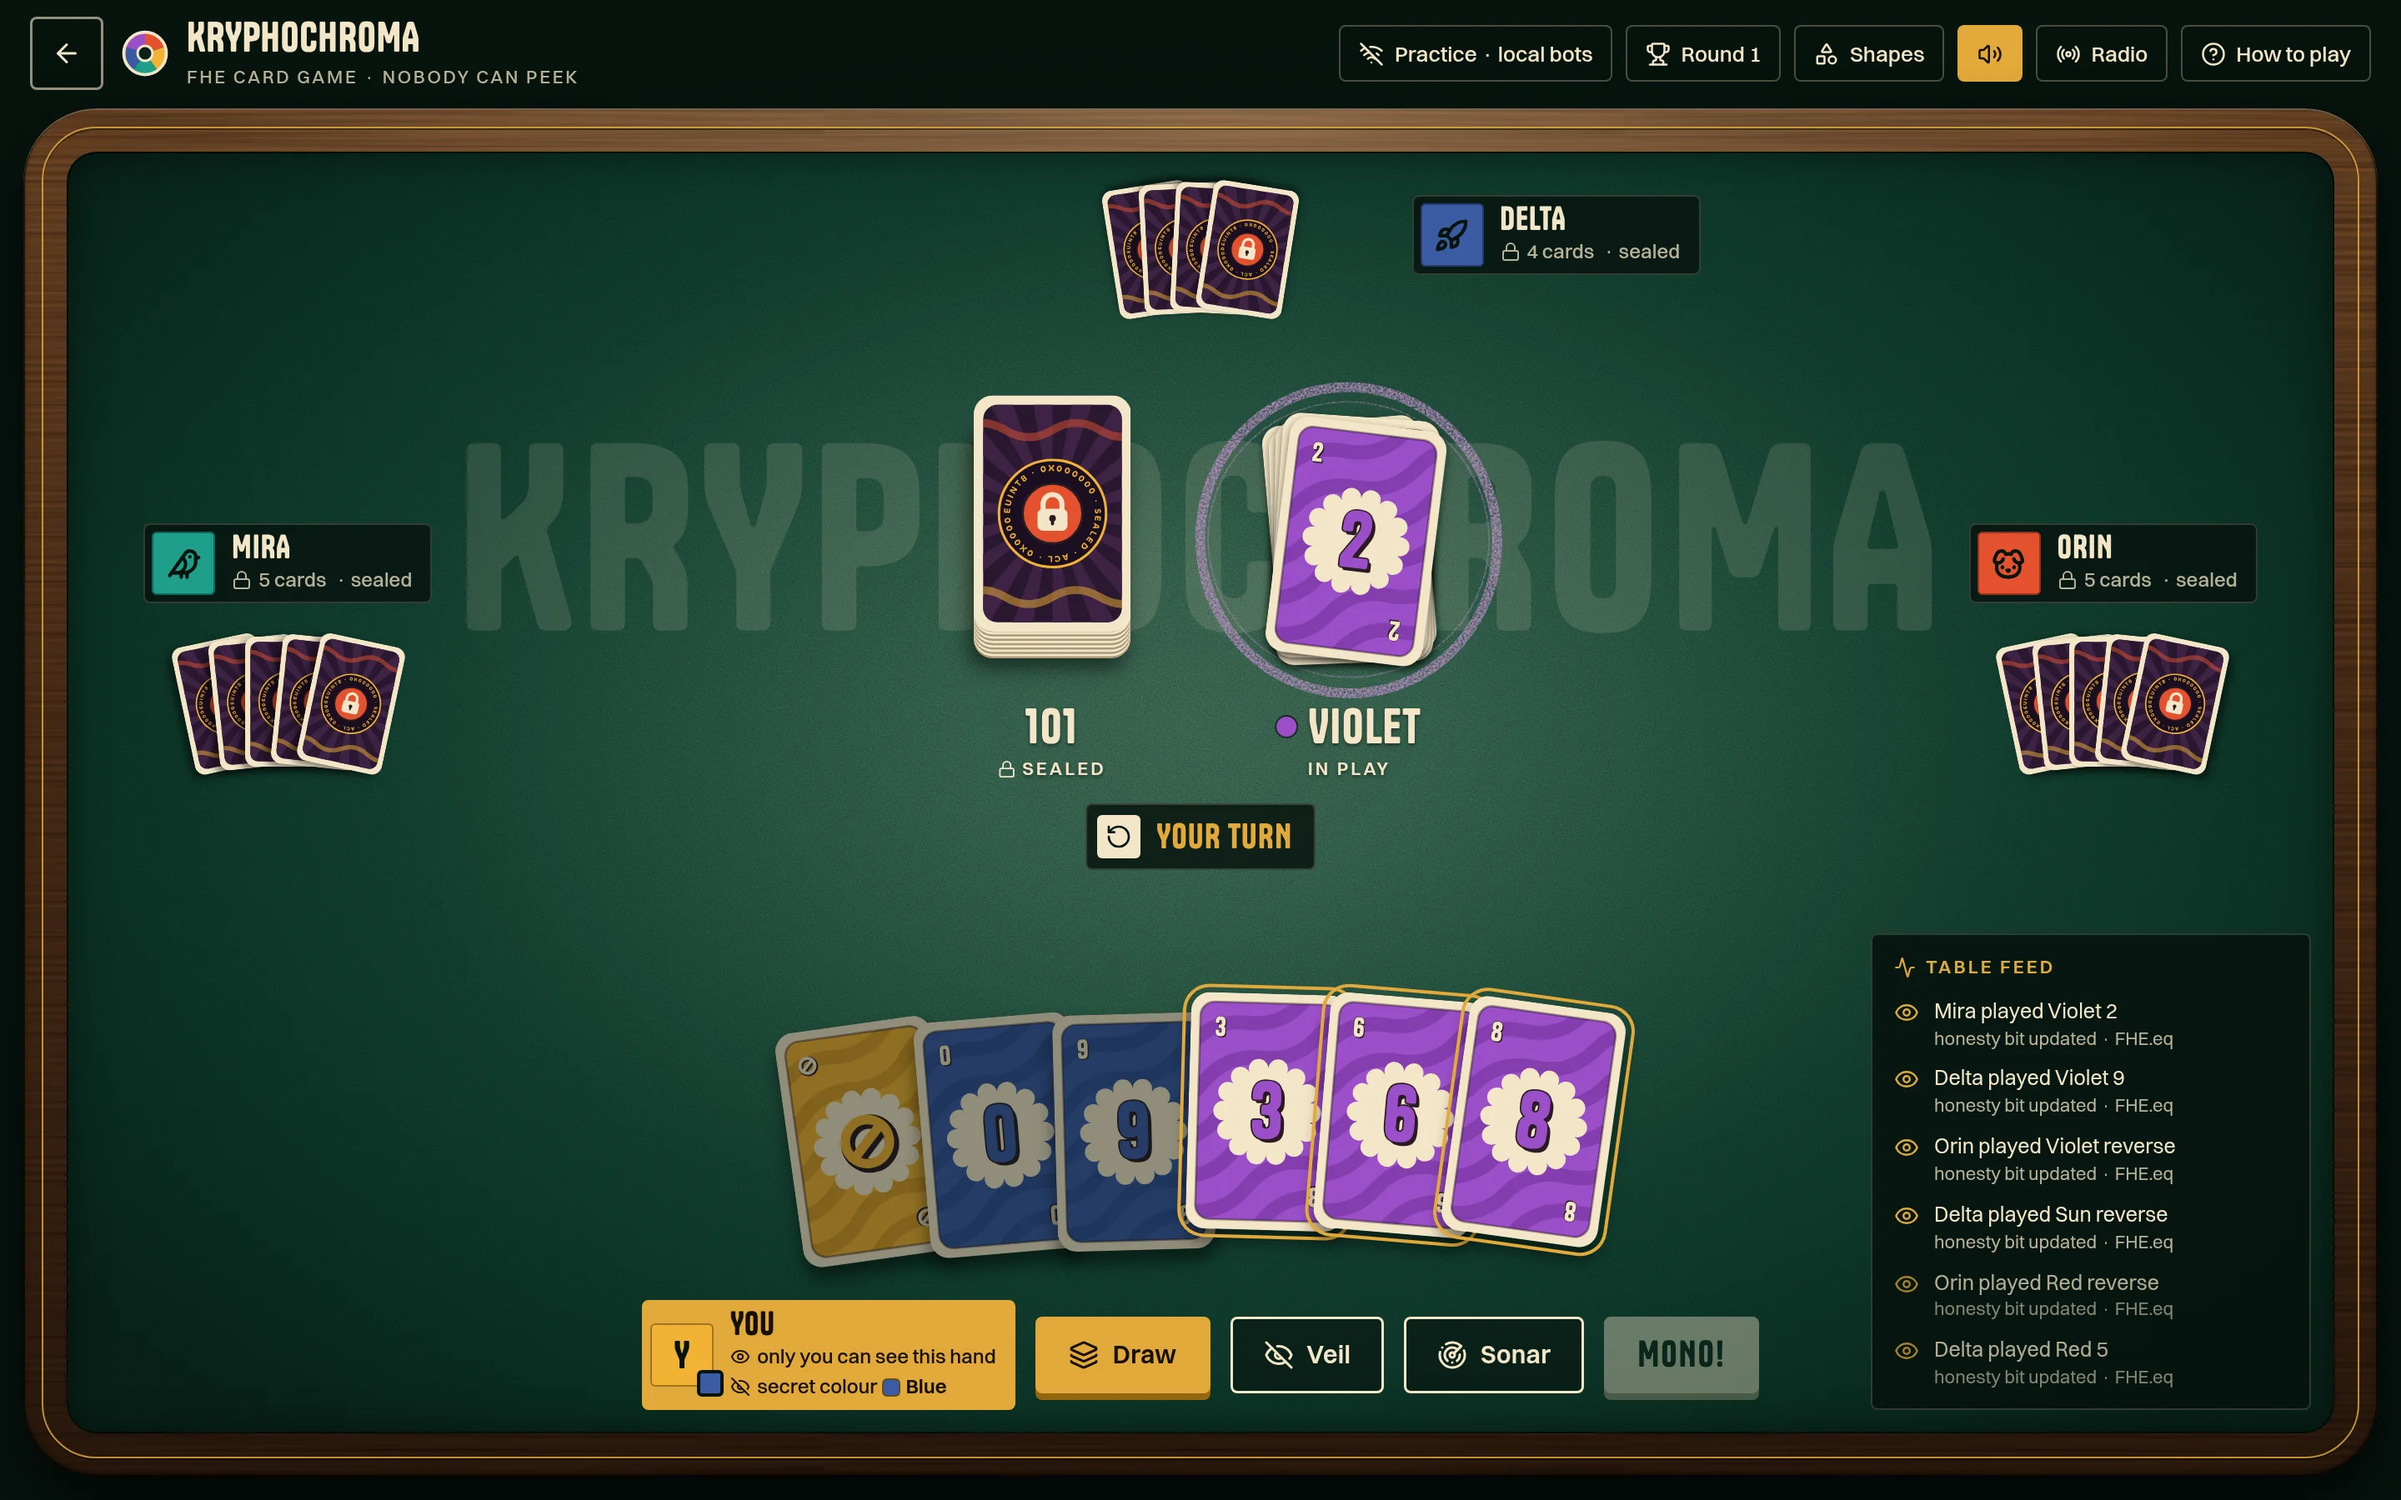
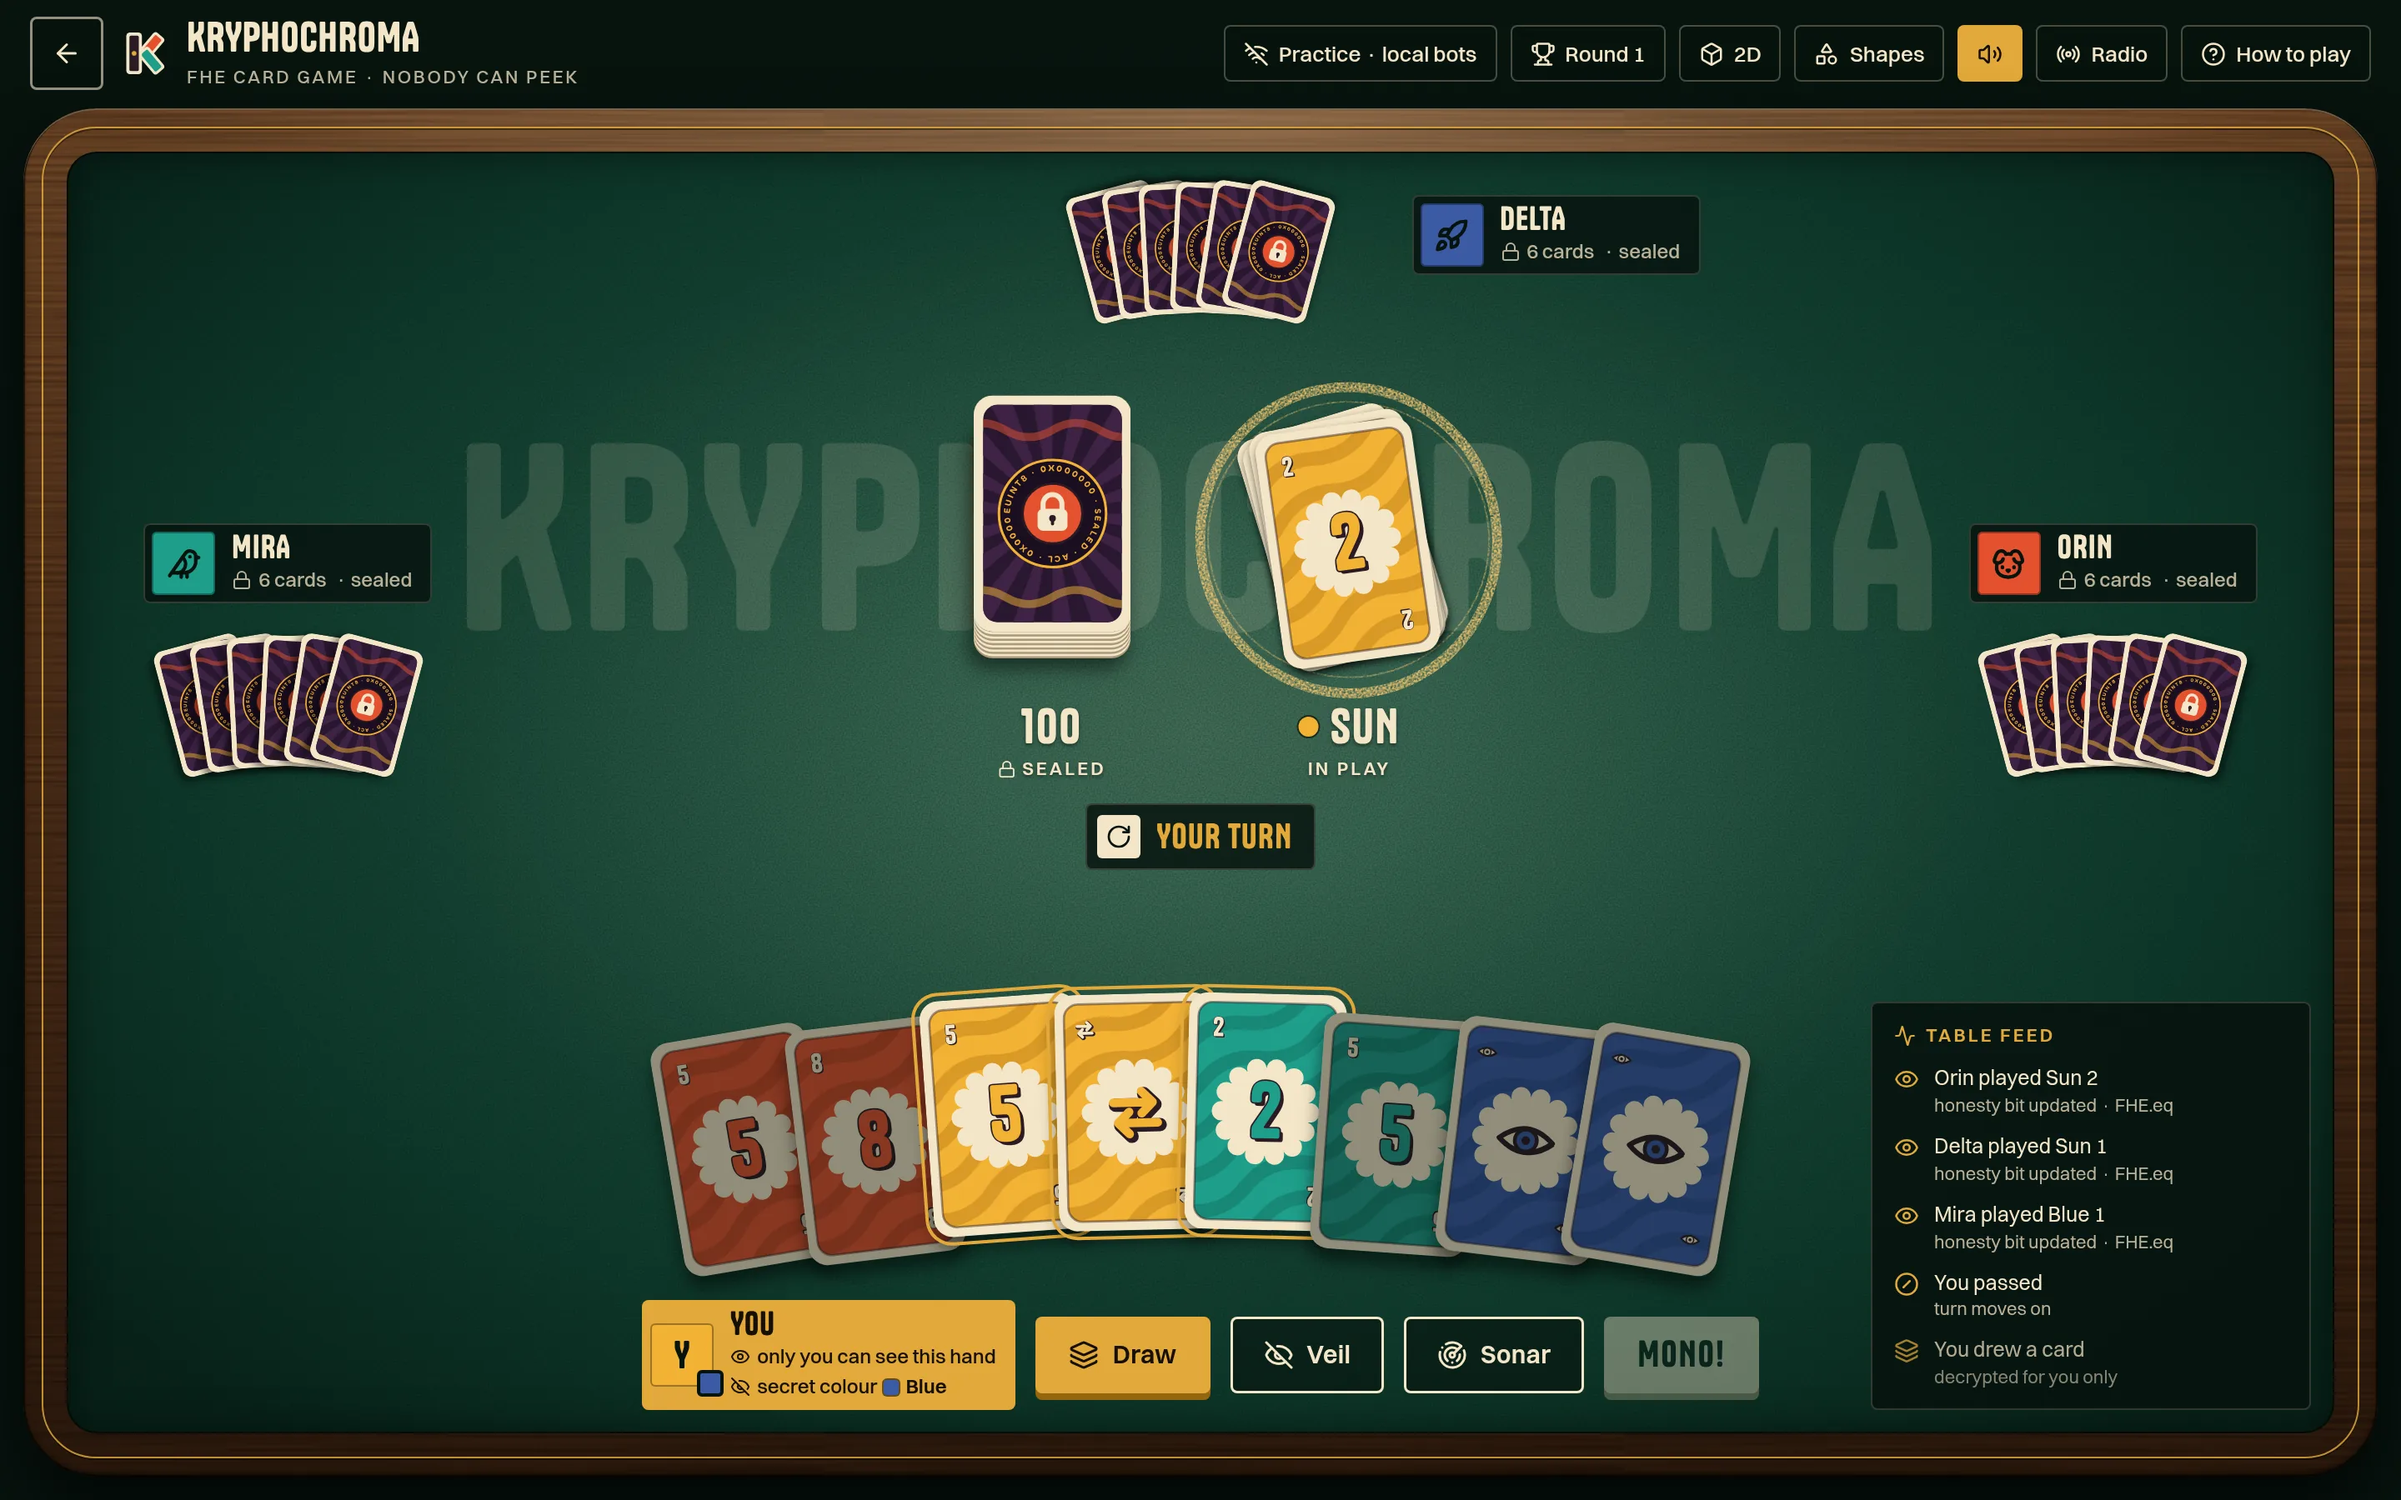
feat(landing): seat the scene at the game table with rails and chairs

diff --git a/apps/web/src/components/landing/scene.ts b/apps/web/src/components/landing/scene.ts
@@ -1,9 +1,9 @@
 import {
   ACESFilmicToneMapping,
-  BoxGeometry,
   CircleGeometry,
   CylinderGeometry,
   DoubleSide,
+  Fog,
   HemisphereLight,
   LatheGeometry,
   LoadingManager,
@@ -25,13 +25,11 @@ import {
 } from "three";
 import { buildCardKit, buildDeckStack, faceOf, makeCard, place } from "./cards";
 import { linear } from "./color";
-import { BASE_ASPECT, CARD_T, DECK, DECK_TOP, DRAWN_FACE, FIRST_FACE, HAND_FACES, HAND_SIZE, LAMP_INTENSITY, LAMP_Y, PEEKED_FACE, PEEK_SEAT, PEEK_SLOT, PRINT, ROOM_INK, SEATS, TABLE_X, TABLE_Z } from "./constants";
+import { createFurniture } from "../table3d/furnish";
+import { BASE_ASPECT, CARD_T, CHAIRS, DECK, DECK_TOP, DRAWN_FACE, FIRST_FACE, FOG_FAR, FOG_NEAR, HAND_FACES, HAND_SIZE, LAMP_INTENSITY, LAMP_Y, PEEKED_FACE, PEEK_SEAT, PEEK_SLOT, PRINT, ROOM_INK, SEATS, TABLE_CUT } from "./constants";
 import { seeded } from "./random";
 import type { CardRig, Rig } from "./state";
-import { feltTexture, printTexture } from "./textures";
-
-const RAIL_W = 0.6;
-const RAIL_H = 0.2;
+import { printTexture } from "./textures";
 
 interface Lights {
   readonly spot: SpotLight;
@@ -59,7 +57,7 @@ function addLights(scene: Scene, shadowSize: number): Lights {
   scene.add(spot);
   scene.add(spot.target);
 
-  const violet = new SpotLight(linear("#9b4fc9"), 0, 14, 0.52, 1, 1);
+  const violet = new SpotLight(linear("#9b4fc9"), 0, 14, 0.6, 1, 1);
   violet.position.set(0.4, 4.2, 5.0);
   violet.target.position.set(0, 0, 2.7);
   scene.add(violet);
@@ -67,16 +65,10 @@ function addLights(scene: Scene, shadowSize: number): Lights {
   return { spot, violet };
 }
 
-function addTable(scene: Scene, textures: Texture[]): void {
-  const felt = feltTexture();
-  textures.push(felt);
-  const baize = new Mesh(
-    new PlaneGeometry(TABLE_X * 2, TABLE_Z * 2),
-    new MeshStandardMaterial({ color: linear("#235a47"), roughness: 1, metalness: 0, map: felt, bumpMap: felt, bumpScale: 0.006 }),
-  );
-  baize.rotation.x = -Math.PI / 2;
-  baize.receiveShadow = true;
-  scene.add(baize);
+function addTable(scene: Scene, textures: Texture[], withFloor: boolean): void {
+  const furniture = createFurniture(scene, textures, withFloor);
+  furniture.setCut(TABLE_CUT);
+  furniture.setChairs(CHAIRS);
 
   const name = printTexture();
   textures.push(name);
@@ -89,22 +81,6 @@ function addTable(scene: Scene, textures: Texture[]): void {
   print.receiveShadow = true;
   print.renderOrder = 1;
   scene.add(print);
-
-  const wood = new MeshStandardMaterial({ color: linear("#4f2f18"), roughness: 0.55, metalness: 0 });
-  const long = new BoxGeometry(TABLE_X * 2 + RAIL_W * 2, RAIL_H, RAIL_W);
-  const short = new BoxGeometry(RAIL_W, RAIL_H, TABLE_Z * 2);
-  const rails = [
-    { geometry: long, x: 0, z: TABLE_Z + RAIL_W / 2 },
-    { geometry: long, x: 0, z: -TABLE_Z - RAIL_W / 2 },
-    { geometry: short, x: TABLE_X + RAIL_W / 2, z: 0 },
-    { geometry: short, x: -TABLE_X - RAIL_W / 2, z: 0 },
-  ];
-  for (const { geometry, x, z } of rails) {
-    const rail = new Mesh(geometry, wood);
-    rail.position.set(x, RAIL_H / 2 - 0.03, z);
-    rail.receiveShadow = true;
-    scene.add(rail);
-  }
 }
 
 function addLamp(scene: Scene): void {
@@ -193,7 +169,8 @@ export function createRig(stage: HTMLElement, band: boolean, forceHq: boolean): 
 
     const camera = new PerspectiveCamera(30, BASE_ASPECT, 0.4, 60);
     const lights = addLights(scene, band || soft ? 1024 : 2048);
-    addTable(scene, textures);
+    scene.fog = new Fog(ROOM_INK, FOG_NEAR, FOG_FAR);
+    addTable(scene, textures, !soft);
     addLamp(scene);
     const cards = addCards(scene, renderer, manager, textures);
     stage.prepend(canvas);

diff --git a/apps/web/test/landingTable.test.ts b/apps/web/test/landingTable.test.ts
@@ -1,0 +1,44 @@
+import { describe, expect, it } from "vitest";
+import { CARD_H, CHAIRS, HAND_SIZE, HAND_Z, SEATS, TABLE_CUT } from "@/components/landing/constants";
+import { type Slot, handSlot, seatSlot } from "@/components/landing/layout";
+import { CHAIR_REACH } from "@/components/table3d/constants";
+
+const REACH = CARD_H / 2;
+
+describe("landing table", () => {
+  it("keeps every rival card on the felt", () => {
+    const slot: Slot = { x: 0, z: 0, yaw: 0 };
+    for (const seat of SEATS) {
+      for (let i = 0; i < HAND_SIZE; i++) {
+        seatSlot(seat, i, slot);
+        expect(Math.abs(slot.x) + REACH).toBeLessThan(TABLE_CUT.hx);
+        expect(slot.z - REACH).toBeGreaterThan(TABLE_CUT.z0);
+        expect(slot.z + REACH).toBeLessThan(TABLE_CUT.z1);
+      }
+    }
+  });
+
+  it("keeps the open hand on the felt", () => {
+    const slot: Slot = { x: 0, z: 0, yaw: 0 };
+    for (let i = 0; i < HAND_SIZE; i++) {
+      handSlot(i, HAND_SIZE, slot);
+      expect(slot.z).toBeGreaterThanOrEqual(HAND_Z);
+      expect(slot.z + REACH).toBeLessThan(TABLE_CUT.z1);
+      expect(Math.abs(slot.x) + REACH).toBeLessThan(TABLE_CUT.hx);
+    }
+  });
+
+  it("pulls a chair up behind every rival, facing the table", () => {
+    expect(CHAIRS).toHaveLength(SEATS.length);
+    const centreZ = (TABLE_CUT.z0 + TABLE_CUT.z1) / 2;
+    CHAIRS.forEach((chair, i) => {
+      const seat = SEATS[i];
+      if (!seat) throw new Error("chair without a seat");
+      const towardCentre = Math.sin(chair.yaw) * -chair.x + Math.cos(chair.yaw) * (centreZ - chair.z);
+      expect(towardCentre).toBeGreaterThan(0);
+      const outside = Math.max(Math.abs(chair.x) - TABLE_CUT.hx, TABLE_CUT.z0 - chair.z);
+      expect(outside).toBeCloseTo(CHAIR_REACH, 6);
+      expect(Math.hypot(chair.x - seat.x, chair.z - seat.z)).toBeLessThan(Math.abs(CHAIR_REACH) + 2);
+    });
+  });
+});

diff --git a/apps/web/src/components/landing/constants.ts b/apps/web/src/components/landing/constants.ts
@@ -1,3 +1,6 @@
+import { CHAIR_REACH } from "../table3d/constants";
+import type { TableCut } from "../table3d/layout";
+
 export const ROOM_INK = "#07130e";
 export const ASSET_BASE = "/landing";
 export const BAND_QUERY = "(max-width: 860px)";
@@ -17,8 +20,9 @@ export const INTRO = 1.9;
 export const SLIDE = 1.56;
 export const NUDGE = 0.34;
 
-export const TABLE_X = 7.2;
-export const TABLE_Z = 5.0;
+export const TABLE_CUT: TableCut = { hx: 4.5, z0: -3.9, z1: 4.2, r: 1.3 };
+export const FOG_NEAR = 27;
+export const FOG_FAR = 60;
 export const LAMP_Y = 4.4;
 export const LAMP_INTENSITY = 2.1;
 export const VIOLET_INTENSITY = 5;
@@ -78,3 +82,9 @@ export const DECK_TOP = DECK.n * DECK.step;
 export const PILE = { x: 0.6, z: -0.5 } as const;
 export const VEIL = { x: -0.75, z: 0.9, yaw: 0.22 } as const;
 export const PRINT = { text: "KRYPHOCHROMA", x: 0, z: 0.94, w: 4.9, d: 1.36, ink: 0.46 } as const;
+
+export const CHAIRS = [
+  { x: -TABLE_CUT.hx - CHAIR_REACH, z: SEATS[0].z, yaw: Math.PI / 2 },
+  { x: SEATS[1].x, z: TABLE_CUT.z0 - CHAIR_REACH, yaw: 0 },
+  { x: TABLE_CUT.hx + CHAIR_REACH, z: SEATS[2].z, yaw: -Math.PI / 2 },
+] as const;

diff --git a/apps/web/src/components/landing/pose.ts b/apps/web/src/components/landing/pose.ts
@@ -37,7 +37,7 @@ const SHOT_ROWS: readonly PoseRow[] = [
   [-2.9, 2.3, 4.3, -0.55, 0, 0.75, 30, 0.2, 0, -0.5, 0.5, 1, 1, 0, 0.5, 0, 0],
   [-0.2, 1.7, 3.4, -3.1, 0.7, 0.2, 30, -0.16, 0, -2.2, 0, 1, 0, 1, 0, 0, 0.4],
   [0.6, 1.5, 3.6, 3.1, 0.3, -0.2, 30, 0.14, 0, 2.2, -0.1, 1, 1, 0, -0.4, 0, 0],
-  [-2.6, 1.3, 7.4, 0.1, 0.15, 1.8, 30, -0.2, 0, 0, -1.0, 0.9, 0, 1, 0.5, 0, 0],
+  [-2.5, 1.55, 6.3, 0.1, 0.15, 1.8, 30, -0.2, 0, 0, -1.0, 0.9, 0, 1, 0.5, 0, 0],
   [1.5, 1.0, 3.3, -1.5, 0.5, -0.7, 30, -0.24, 0, -1.0, -0.4, 1, 0, 1, 0, 0.2, 0.3],
 ];
 
